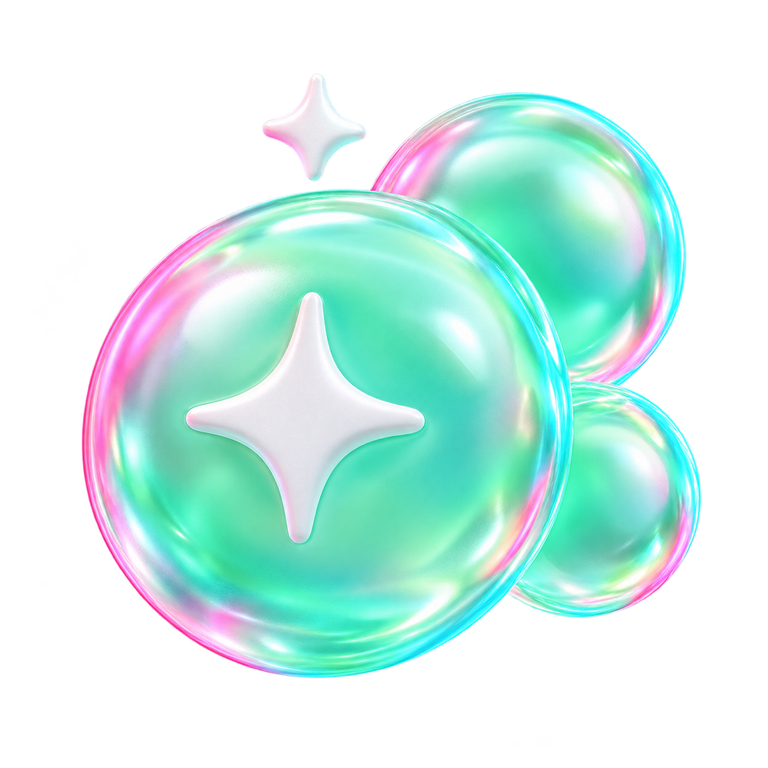
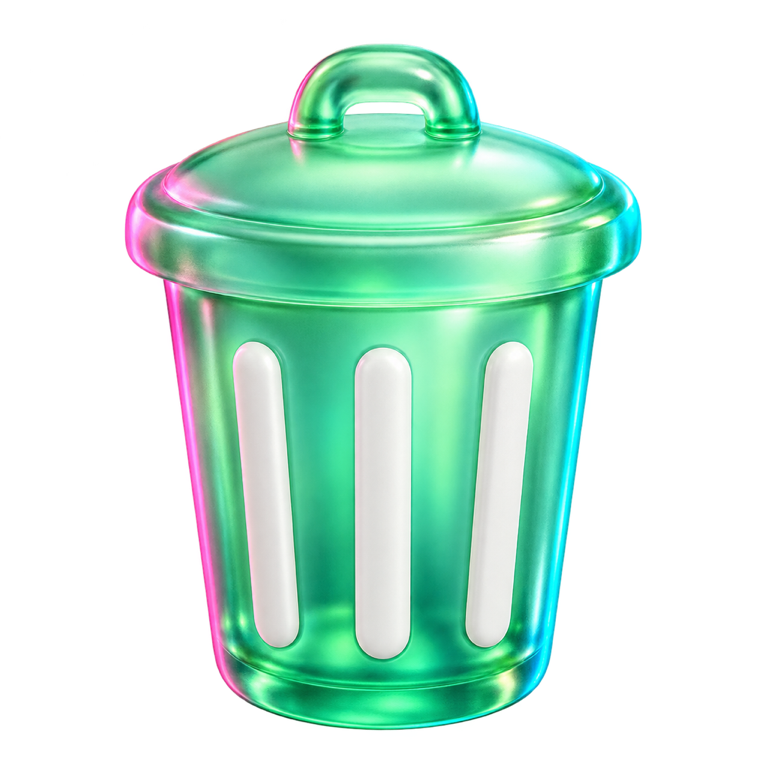
Cleanup is a trash can, Applications four app tiles
The Applications glass object was a tile with a trash can and Cleanup was soap bubbles, so the
removal picture sat on the wrong section. Cleanup now shows a glass trash can (menu symbol
trash) and Applications four glass app tiles (square.grid.2x2). The uninstall glass is replaced
by apps.

diff --git a/App/Nora/Core/Module.swift b/App/Nora/Core/Module.swift
@@ -52,8 +52,8 @@ enum Module: String, CaseIterable, Identifiable, Hashable {
     var symbol: String {
         switch self {
         case .smartCare: "flask"
-        case .cleanup: "bubbles.and.sparkles"
-        case .applications: "trash.square"
+        case .cleanup: "trash"
+        case .applications: "square.grid.2x2"
         case .performance: "bolt"
         case .spaceMap: "chart.pie"
         case .status: "waveform.path.ecg"
@@ -71,7 +71,7 @@ enum Module: String, CaseIterable, Identifiable, Hashable {
         switch self {
         case .smartCare: "vessel"
         case .cleanup: "clean"
-        case .applications: "uninstall"
+        case .applications: "apps"
         case .performance: "optimize"
         case .spaceMap: "analyze"
         case .status: "status"

diff --git a/docs/ru/DESIGN.md b/docs/ru/DESIGN.md
@@ -232,7 +232,7 @@ Nora.app (SwiftUI, macOS 14+)
 ## 6. Дизайн-система
 
 - **Сцены модулей** (неон, Hotline Miami): Умный уход — маджента → фиолет; Очистка — зелёный; Программы — циан → синий; Быстродействие — закат; Анализ диска — ультрафиолет; Состояние — розовый → индиго; Инструменты и История — ночной фиолет; Безопасность — малиновый. Цвета плавно перетекают между разделами. Едва заметные VHS-линии и «горизонт» света за кнопкой.
-- **Стеклянные 3D-объекты** — по одному на модуль, в трёх состояниях («покой / работа / готово»): «сосуд» диска со слоями занятого места и искрами того, что можно убрать; мыльные пузыри с искрой для очистки; плитка программ; молния быстродействия; 3D-sunburst анализа; тор с неоновой нитью для состояния; стопка папок с `</>` для проектов; коробка инсталляторов; щиты защиты и безопасности; часы со стрелкой назад для истории; ключ и отвёртка инструментов. Каждый объект показывает то же, что SF Symbol модуля в боковой панели и строке меню (`Module.symbol`), поэтому пункт меню и сцена дают один образ. Финальные ассеты созданы генеративной моделью по единому стиль-гайду (матовое цветное стекло, белые символы внутри, розовый и циановый контровый свет), затем фон переводится в альфа-канал. Исходники — `Design/Glass/`.
+- **Стеклянные 3D-объекты** — по одному на модуль, в трёх состояниях («покой / работа / готово»): «сосуд» диска со слоями занятого места и искрами того, что можно убрать; корзина для очистки; четыре плитки программ в сетке; молния быстродействия; 3D-sunburst анализа; тор с неоновой нитью для состояния; стопка папок с `</>` для проектов; коробка инсталляторов; щиты защиты и безопасности; часы со стрелкой назад для истории; ключ и отвёртка инструментов. Каждый объект показывает то же, что SF Symbol модуля в боковой панели и строке меню (`Module.symbol`), поэтому пункт меню и сцена дают один образ. Финальные ассеты созданы генеративной моделью по единому стиль-гайду (матовое цветное стекло, белые символы внутри, розовый и циановый контровый свет), затем фон переводится в альфа-канал. Исходники — `Design/Glass/`.
 - **Нативно:** объекты анимируются в SwiftUI (плавание, наклон за курсором, свечение во время работы, «толчок» по завершении), фаза анимации не сбрасывается при перерисовке. Дальше — Inferno (преломление, блеск) и Vortex (частицы); стекло интерфейса — `glassEffect` на macOS 26 с запасным вариантом `Material`.
 - **Иконка приложения:** неоновый сквиркл (маджента → фиолет → циан) со стеклянным «сосудом» диска; исходники — `Design/AppIcon/` (`AppIcon-1024.png`, `Nora.icns`).
 - **Строка меню** (по итогам анализа MangelSP, Burrow и Stats; у Zhili и gokuscraper строки меню нет):

diff --git a/docs/uk/DESIGN.md b/docs/uk/DESIGN.md
@@ -234,8 +234,8 @@ Nora.app (SwiftUI, macOS 14+)
 - **Сцени модулів** (неон, Hotline Miami): Розумний догляд — маджента→фіолет; Очищення — зелений; Програми — ціан→синій; Швидкодія — захід сонця; Аналіз — ультрафіолет; Стан — рожевий→індиго; Інструменти та Історія — нічний фіолет; Безпека — малиновий. Кольори плавно перетікають між розділами. Ледь помітні VHS-лінії й «горизонт» світла за кнопкою.
 - **Скляні 3D-об'єкти** (по одному на модуль, стани «спокій / робота / готово»):
   - диск — «посудина» з шарами зайнятого місця й бурштиновим пилом того, що можна прибрати;
-  - очищення — мильні бульбашки з іскрою;
-  - програми — плитка;
+  - очищення — кошик;
+  - програми — чотири плитки програм у сітці;
   - швидкодія — блискавка;
   - аналіз — 3D-sunburst;
   - стан — тор із неоновою ниткою, що пульсує в такт CPU;

diff --git a/CHANGELOG.md b/CHANGELOG.md
@@ -11,7 +11,7 @@ Changes to the Nora app, newest first. Work that is merged but not released yet 
 - The ClamAV database update shows that it is downloading.
 
 ### Changed
-- Menu and scene icons match: each section's icon in the sidebar and the menu bar draws the same object as its scene. New glass objects for Cleanup (soap bubbles with a sparkle instead of a star with a white ball), Projects (a clean `</>`), Performance (a bolt instead of a shield), History (a clock with a back arrow) and Tools (a wrench and a screwdriver instead of a gear).
+- Menu and scene icons match: each section's icon in the sidebar and the menu bar draws the same object as its scene. New glass objects for Cleanup (a trash can instead of a star with a white ball), Applications (four app tiles instead of a tile with a trash can, so it no longer looks like Cleanup), Projects (a clean `</>`), Performance (a bolt instead of a shield), History (a clock with a back arrow) and Tools (a wrench and a screwdriver instead of a gear).
 - Homebrew updates run one app at a time, so Stop can wait for the app in progress.
 
 ### Fixed

diff --git a/docs/en/DESIGN.md b/docs/en/DESIGN.md
@@ -234,8 +234,8 @@ Tests: parser tests on fixtures recorded from real runs (CI matrix with `brew in
 - **Module scenes** (neon, Hotline Miami): Smart Care magenta → violet; Cleanup green; Applications cyan → blue; Performance sunset; Space Map ultraviolet; Status pink → indigo; Tools and History night violet; Security crimson. Colours morph between sections. Barely visible VHS lines and a light "horizon" behind the button.
 - **Glass 3D objects**, one per module, in three states (*idle / working / done*):
   - disk: a "vessel" with layers of used space and amber dust showing what can be removed;
-  - cleanup: soap bubbles with a sparkle;
-  - applications: a tile;
+  - cleanup: a trash can;
+  - applications: four app tiles in a grid;
   - performance: a lightning bolt;
   - space map: a 3D sunburst;
   - status: a torus with a neon filament that pulses with the CPU;
